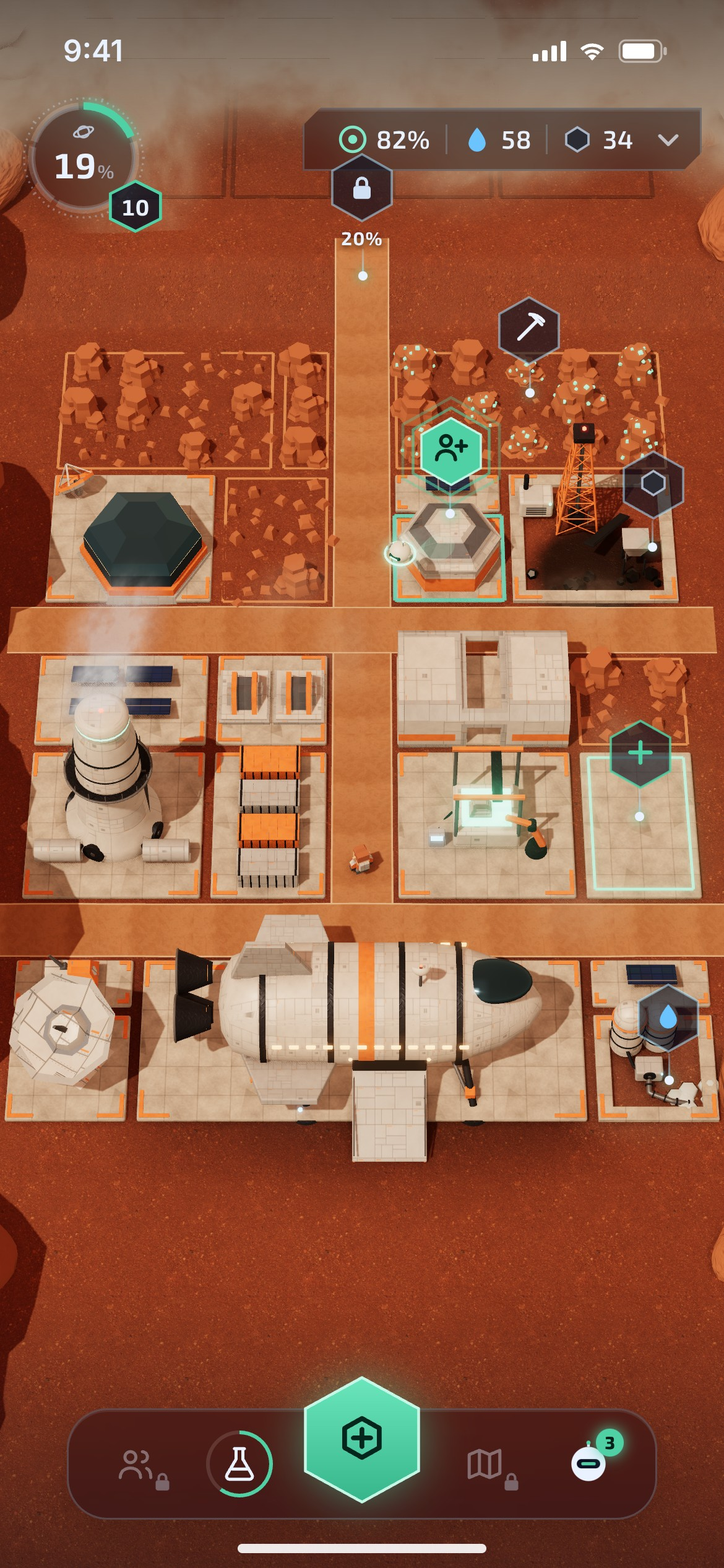
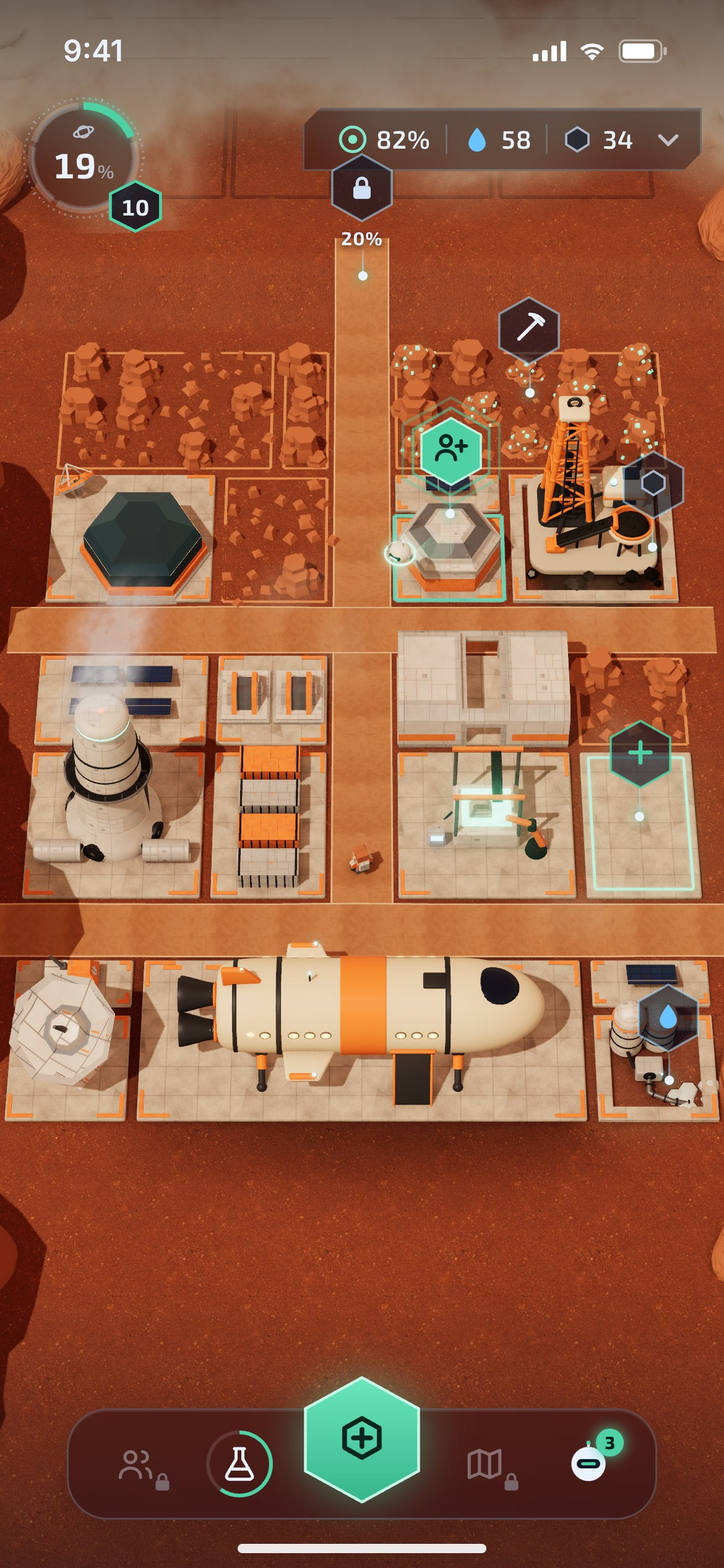
Макет: нови кадри при ниво 10 с гладките модели
Кадри 01–03 в mockup/screens са рендирани наново с Ковчега и
карбоновата сонда от CellCog; README и дневникът са обновени.

Claude-Session: https://claude.ai/code/session_01HQgMkiyb5bvwSnLxV2QWWo

Changed region(s): [[0.2154, 0.5616, 0.8, 0.7488], [0.7077, 0.2496, 0.9231, 0.3744]]

diff --git a/docs/notes.md b/docs/notes.md
@@ -111,6 +111,7 @@
 
 | Дата | Промяна | Статус |
 | --- | --- | --- |
+| 02.11.2026 | Макетът на екрана ползва гладките модели на Ковчега и карбоновата сонда. Кадрите при ниво 10 (01–03 в mockup/screens) са направени наново; кадрите при атмосфера 90% са същите, защото там двата модела са извън кадъра | Готово |
 | 02.11.2026 | Жоро: ходът на играта е пренареден по idle концепцията, версия 0.3. Нов раздел „Сега“ (действия, идеи, отворени въпроси), нови стъпки в главите 1–10, нова схема на пътя до ниво 100, нови системи (бури, капсули, експедиции, цели, визуален стил, луната). Документът в Claude, docs/game-flow.md и Word файлът са обновени | Готово |
 | 02.11.2026 | Жоро: 3D моделите трябва да са гладки и заоблени (две примерни снимки само за стила). Тест с CellCog: Ковчегът и карбоновата сонда като GLB модели (около 20 хил. триъгълника всеки) и кадър за сравнение в размер на iPhone, в art/3d. Струваше 132 кредита; останаха 42 | В работа |
 | 02.11.2026 | Първи концептуален арт на колонийния кораб при кацането (CellCog, предложение): `art/concept/colony-ship-landing-v1.png`, 9:16. Рисуван е преди новата концепция: изглед отстрани, а камерата вече е само отгоре; става за картинка в магазина или за начален екран | В работа |

diff --git a/mockup/README.md b/mockup/README.md
@@ -53,6 +53,7 @@ npm run shots
 
 ## Източници и лицензи
 
+- **Ковчегът и карбоновата сонда:** гладките модели от CellCog в `art/3d` (02.11.2026); `fetch-assets.sh` ги копира в `models/`. Старите модели, построени с код, са още в `src/models.js`.
 - **Kenney Space Kit** (kenney.nl): модели на хангари, куполи, чинии, генератори, роувър, астронавт, ракета, скали. Лиценз CC0. Взети са от npm копието `@anabis/kenney-space-kit-mirror`.
 - **Poly Haven** (polyhaven.com): сканирани текстури (почва, трева, бетон, асфалт, чакъл, метал) и небето `kloofendal_48d_partly_cloudy_puresky`. Лиценз CC0.
 - **Exo 2** (Google Fonts): шрифтът на интерфейса. Лиценз SIL Open Font License 1.1.
